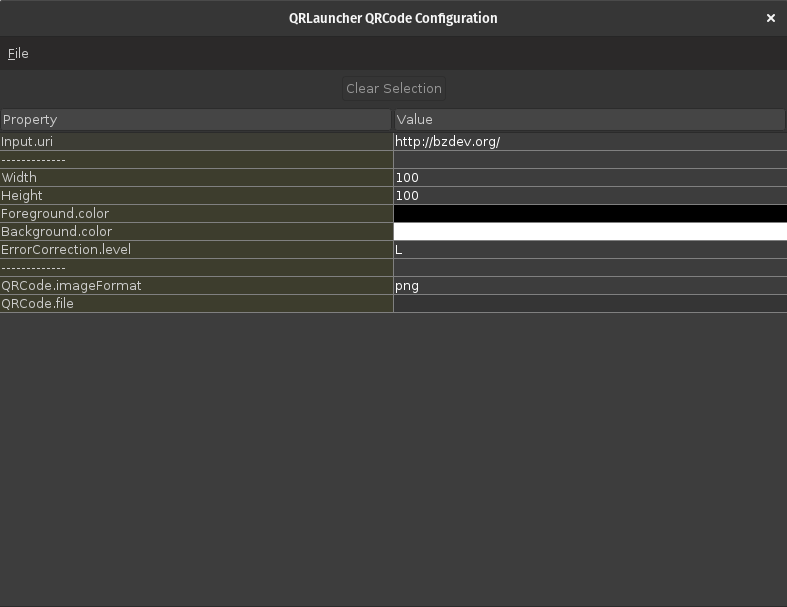
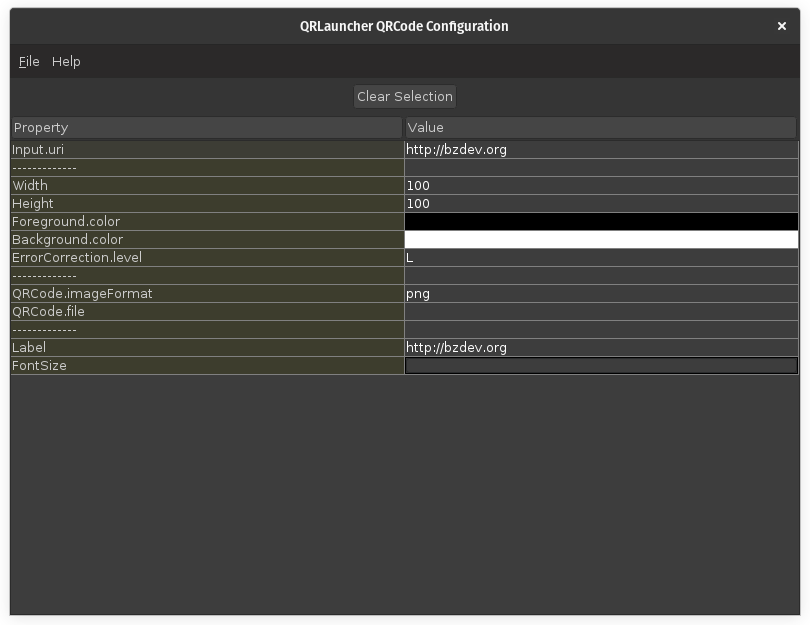
Add --label and --fontSize arguments & some table-cell editors

Changed region(s): [[0.0, 0.0, 1.0, 1.0]]

diff --git a/QRLauncher.java b/QRLauncher.java
@@ -9,6 +9,9 @@ import java.awt.*;
 import java.awt.datatransfer.Clipboard;
 import java.awt.datatransfer.Transferable;
 import java.awt.event.*;
+import java.awt.font.FontRenderContext;
+import java.awt.font.LineMetrics;
+import java.awt.geom.Rectangle2D;
 import java.awt.image.BufferedImage;
 import javax.imageio.ImageIO;
 import java.io.File;
@@ -47,6 +50,8 @@ import org.bzdev.swing.ExtObjTransferHandler;
 import org.bzdev.swing.FileNameCellEditor;
 import org.bzdev.swing.HtmlPane;
 import org.bzdev.swing.SimpleConsole;
+import org.bzdev.swing.TextCellEditor;
+import org.bzdev.swing.WholeNumbTextField;
 import org.bzdev.swing.table.CSSTableCellRenderer;
 
 
@@ -450,7 +455,8 @@ public class QRLauncher {
 			 String pathname,
 			 ErrorCorrectionLevel level,
 			 int width, int height,
-			 Color fgColor, Color bgColor)
+			 Color fgColor, Color bgColor,
+			 String label, int fontSize)
 	throws Exception
     {
 	Map<EncodeHintType,ErrorCorrectionLevel> map =  new HashMap<>();
@@ -476,8 +482,6 @@ public class QRLauncher {
 	    int outputHeight = Math.max(height, qrHeight);
 	    int multiple = Math.min(outputWidth / qrWidth,
 				    outputHeight / qrHeight);
-	    int leftPadding = (outputWidth - (inputWidth * multiple)) / 2;
-	    int topPadding = (outputHeight - (inputHeight * multiple)) / 2;
 
 	    if (multiple < MIN_MULT) {
 		// We got it to work with a multiple of 14 but we should
@@ -489,6 +493,14 @@ public class QRLauncher {
 		multiple = Math.min(outputWidth / qrWidth,
 				    outputHeight / qrHeight);
 	    }
+	    int leftPadding = (outputWidth - (inputWidth * multiple)) / 2;
+	    int topPadding = (outputHeight - (inputHeight * multiple)) / 2;
+	    if (label != null) {
+		if (topPadding < 2*fontSize) {
+		    topPadding += 2*fontSize;
+		    outputHeight += 4*fontSize;
+		}
+	    }
 
 	    OutputStreamGraphics osg = OutputStreamGraphics
 		.newInstance(os, outputWidth, outputHeight, iformat, true);
@@ -499,6 +511,19 @@ public class QRLauncher {
 	    }
 	    g2d.setColor(fgColor);
 	    g2d.setStroke(new BasicStroke(0.5F));
+	    int textX = -1;
+	    int textY = -1;
+	    if (label != null) {
+		Font font= new Font(Font.SANS_SERIF, Font.BOLD, fontSize);
+		g2d.setFont(font);
+		FontRenderContext frc = g2d.getFontRenderContext();
+		Rectangle2D bounds = font.getStringBounds(label, frc);
+		LineMetrics lm = font.getLineMetrics(label, frc);
+		textX = outputWidth/2 - (int)Math.round(bounds.getWidth()/2);
+		textY = outputHeight - topPadding + fontSize/2
+		    + Math.round(lm.getAscent());
+		g2d.drawString(label, textX, textY);
+	    }
 
 	    for (int inputY = 0, outputY = topPadding;
 		 inputY < inputHeight; inputY++, outputY += multiple) {
@@ -557,6 +582,7 @@ public class QRLauncher {
 	    addReservedKeys("Width", "Height", "Foreground.color",
 			    "Background.color", "ErrorCorrection.level");
 	    addReservedKeys("QRCode.imageFormat", "QRCode.file");
+	    addReservedKeys("Label", "FontSize");
 
 	    setDefaultProperty("ErrorCorrection.level", "L");
 	    setDefaultProperty("QRCode.imageFormat", "png");
@@ -606,6 +632,13 @@ public class QRLauncher {
 
 	    addRE("QRCode.file", null, outputFileEditor);
 	    changedPropertyClears("QRCode.imageFormat", "QRCode.file");
+
+	    TextCellEditor tce = new
+		TextCellEditor<String>(String.class,
+					new WholeNumbTextField());
+	    addRE("Width", null, tce);
+	    addRE("Height", null, tce);
+	    addRE("FontSize", null, tce);
 
 	    monitorProperty("QRCode.imageFormat");
 	    addConfigPropertyListener((e) -> {
@@ -684,6 +717,8 @@ public class QRLauncher {
 	String fgColor = results.getProperty("Foreground.color", "black");
 	String bgColor = results.getProperty("Background.color", "white");
 	String level = results.getProperty("ErrorCorrection.level", "L");
+	String label = results.getProperty("Label");
+	String fontSize = results.getProperty("FontSize");
 	String imageFormat = results.getProperty("QRCode.imageFormat",
 						 "png");
 	String output = results.getProperty("QRCode.file");
@@ -719,16 +754,36 @@ public class QRLauncher {
 	    
 	}
 	try {
-	    ProcessBuilder pb = new ProcessBuilder
-		(System.getProperty("qrl.cmd"),
-		 ((uri == null)? "-i": "-u"),
-		 ((uri == null)? ifile: uri),
-		 "-w", width,
-		 "-h", height,
-		 "-F", fgColor,
-		 "-B", bgColor,
-		 "-L", level,
-		 "-o", output);
+	    LinkedList<String> args = new LinkedList<>();
+	    String[] iargs = {
+		System.getProperty("qrl.cmd"),
+		((uri == null)? "-i": "-u"),
+		((uri == null)? ifile: uri),
+		"-w", width,
+		"-h", height,
+		"-F", fgColor,
+		"-B", bgColor,
+		"-L", level,
+		"-o", output};
+	    for (String s: iargs) {
+		args.add(s);
+	    }
+	    if (label != null || label.trim().length() == 0) {
+		args.add("--label");
+		args.add(label);
+		if (fontSize != null) {
+		    fontSize = fontSize.trim();
+		    while (fontSize.startsWith("0")) {
+			fontSize = fontSize.substring(1);
+		    }
+		    if(fontSize.length() > 0) {
+			args.add("--fontSize");
+			args.add(fontSize);
+		    }
+		}
+	    }
+
+	    ProcessBuilder pb = new ProcessBuilder(args);
 	    pb.inheritIO();
 	    Process p = pb.start();
 	    System.exit(p.waitFor());
@@ -771,6 +826,8 @@ public class QRLauncher {
 	int index = 0;
 	int width = 100;
 	int height = 100;
+	String label = null;
+	int fontSize = 12;
 	String uri = null;
 	String ipath = null;
 	String path = null;
@@ -959,6 +1016,34 @@ public class QRLauncher {
 		System.exit(0);
 	    } else if (argv[index].equals("-g")) {
 		config(new File(cwd), null);
+	    } else if (argv[index].equals("--label")) {
+		index++;
+		if (index >= argv.length) {
+		    System.err.println(localeString("qrl") +": "
+				       + localeString("missingLabel"));
+		    System.exit(1);
+		}
+		label = argv[index].trim();
+		if (label.length() == 0) label = null;
+	    } else if (argv[index].equals("--fontSize")) {
+		index++;
+		if (index >= argv.length) {
+		    System.err.println(localeString("qrl") +": "
+				       + localeString("missingfontSize"));
+		    System.exit(1);
+		}
+		try {
+		    fontSize = Integer.parseInt(argv[index]);
+		    if (fontSize <= 0) {
+			System.err.println(localeString("qrl") +": "
+					   + localeString("illegalFontSize"));
+			System.exit(1);
+		    }
+		} catch (NumberFormatException nfe) {
+			System.err.println(localeString("qrl") +": "
+					   + localeString("illegalFontSize"));
+			System.exit(1);
+		}
 	    } else if (argv[index].equals("--help")) {
 		showHelp();
 		// main should exit because showHelp() opens a
@@ -1018,7 +1103,7 @@ public class QRLauncher {
 		    if (trim) text = text.trim();
 		}
 		qrEncode(text, cdir, iformat, path, level, width, height,
-			 fgColor, bgColor);
+			 fgColor, bgColor, label, fontSize);
 	    } catch (Exception ex) {
 		String msg = ex.getMessage();
 		if (msg == null || msg.trim().length() == 0) {
